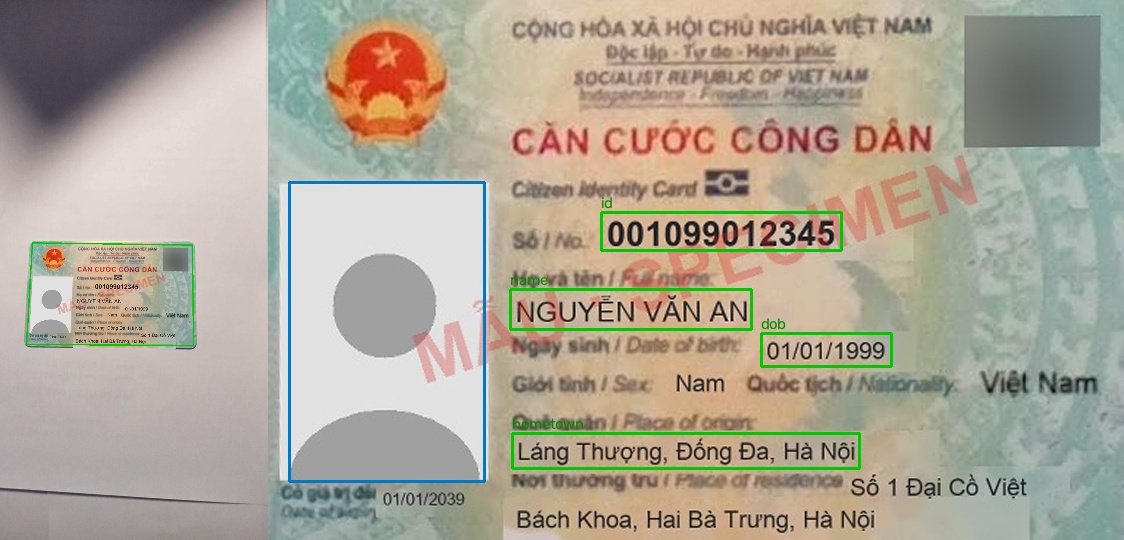
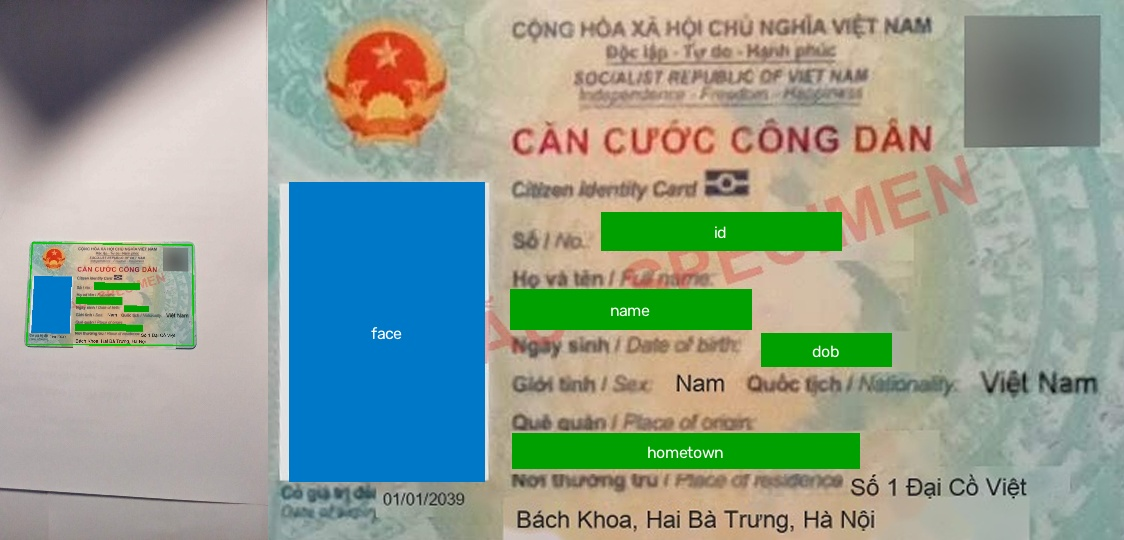
Redacted visualisation and a drawn pipeline diagram
- draw(..., redact=True) / ekyc --vis out.jpg --redact covers each detected field
  and the face with an opaque box, on the flattened card and on the input photo
- README result image regenerated with --redact, JSON values partly masked
- pipeline diagram as docs/images/pipeline.svg instead of the mermaid chart
- test for the redacted visualisation

Changed region(s): [[0.2491, 0.3259, 0.8096, 0.9185], [0.5294, 0.3556, 0.7785, 0.4741], [0.0, 0.5037, 0.1557, 0.6222]]

diff --git a/src/ekyc/pipeline.py b/src/ekyc/pipeline.py
@@ -120,19 +120,45 @@ class EKYC:
         )
 
 
-def draw(result: ExtractionResult, image: np.ndarray | None = None) -> np.ndarray:
-    """Visualise the result: card quad on the input (if given) beside the annotated crop."""
-    card = result.card_image.copy()
-    for name, f in result.fields.items():
-        for x1, y1, x2, y2 in f.boxes:
-            cv2.rectangle(card, (x1, y1), (x2, y2), (0, 200, 0), 2)
-            cv2.putText(card, name, (x1, max(12, y1 - 4)), cv2.FONT_HERSHEY_SIMPLEX, 0.5, (0, 140, 0), 1, cv2.LINE_AA)
+def _card_to_image(result: ExtractionResult, box) -> np.ndarray:
+    """Project an (x1, y1, x2, y2) box on the warped card back onto the input photo as a polygon."""
+    h, w = result.card_image.shape[:2]
+    rect = np.array([[0, 0], [w - 1, 0], [w - 1, h - 1], [0, h - 1]], dtype=np.float32)
+    m = cv2.getPerspectiveTransform(rect, np.array(result.card_quad, dtype=np.float32))
+    x1, y1, x2, y2 = box
+    pts = np.array([[[x1, y1], [x2, y1], [x2, y2], [x1, y2]]], dtype=np.float32)
+    return cv2.perspectiveTransform(pts, m)[0].round().astype(np.int32)
+
+
+def draw(result: ExtractionResult, image: np.ndarray | None = None, redact: bool = False) -> np.ndarray:
+    """Visualise the result: card quad on the input (if given) beside the annotated crop.
+
+    With ``redact=True`` every detected field and the face are covered by an opaque box (on the
+    crop and on the input photo), so the picture can be shared without the personal data.
+    """
+    green, blue = (0, 160, 0), (200, 120, 0)
+    boxes = [(name, b, green) for name, f in result.fields.items() for b in f.boxes]
     if result.face_box:
-        x1, y1, x2, y2 = result.face_box
-        cv2.rectangle(card, (x1, y1), (x2, y2), (200, 120, 0), 2)
+        boxes.append(("face", result.face_box, blue))
+
+    card = result.card_image.copy()
+    for name, (x1, y1, x2, y2), color in boxes:
+        if redact:
+            cv2.rectangle(card, (x1, y1), (x2, y2), color, -1)
+            (tw, th), _ = cv2.getTextSize(name, cv2.FONT_HERSHEY_SIMPLEX, 0.55, 1)
+            org = ((x1 + x2 - tw) // 2, (y1 + y2 + th) // 2)
+            cv2.putText(card, name, org, cv2.FONT_HERSHEY_SIMPLEX, 0.55, (255, 255, 255), 1, cv2.LINE_AA)
+        else:
+            cv2.rectangle(card, (x1, y1), (x2, y2), color, 2)
+            if name != "face":
+                cv2.putText(card, name, (x1, max(12, y1 - 4)), cv2.FONT_HERSHEY_SIMPLEX, 0.5, (0, 140, 0), 1,
+                            cv2.LINE_AA)
     if image is None or result.card_quad is None:
         return card
     src = image.copy()
+    if redact:
+        for _, box, color in boxes:
+            cv2.fillPoly(src, [_card_to_image(result, box)], color)
     cv2.polylines(src, [np.array(result.card_quad, np.int32)], True, (0, 200, 0), max(2, src.shape[1] // 300))
     src = cv2.resize(src, (int(src.shape[1] * card.shape[0] / src.shape[0]), card.shape[0]))
     return np.hstack([src, card])

diff --git a/src/ekyc/cli.py b/src/ekyc/cli.py
@@ -1,4 +1,4 @@
-"""Command line: ``ekyc card.jpg [--cropper keypoints] [--vis out.jpg]``."""
+"""Command line: ``ekyc card.jpg [--cropper keypoints] [--vis out.jpg [--redact]]``."""
 from __future__ import annotations
 
 import argparse
@@ -19,6 +19,7 @@ def main(argv: list[str] | None = None) -> int:
     p.add_argument("--enhance-ocr", action="store_true", help="shadow removal + contrast stretch before OCR")
     p.add_argument("--fallback-full-image", action="store_true", help="run on the whole image if no card is found")
     p.add_argument("--vis", help="save a visualisation (one image) or a directory (several images)")
+    p.add_argument("--redact", action="store_true", help="cover the fields and face with opaque boxes in --vis")
     args = p.parse_args(argv)
 
     ekyc = EKYC.from_pretrained(args.cropper, args.device, args.cropper_weights, args.enhance_ocr,
@@ -39,7 +40,7 @@ def main(argv: list[str] | None = None) -> int:
         print(json.dumps({"image": path, **result.to_dict()}, ensure_ascii=False, indent=2))
         if args.vis:
             out = args.vis if len(args.images) == 1 else f"{args.vis.rstrip('/')}/{path.rsplit('/', 1)[-1]}"
-            cv2.imwrite(out, draw(result, image))
+            cv2.imwrite(out, draw(result, image, redact=args.redact))
     return status
 
 

diff --git a/tests/test_pipeline.py b/tests/test_pipeline.py
@@ -31,6 +31,20 @@ def test_specimen(ekyc, name):
     assert not result.warnings
 
 
+def test_draw_redact(ekyc):
+    import numpy as np
+
+    from ekyc import draw
+
+    image = cv2.imread(str(ROOT / "examples" / "specimen_2.jpg"))
+    result = ekyc(image)
+    vis = draw(result, image, redact=True)
+    card = vis[:, -result.card_image.shape[1]:]  # right half: the flattened card
+    x1, y1, x2, y2 = result.fields["id"].boxes[0]
+    patch = card[y1 + 2:y2 - 2, x1 + 2:x1 + 20]  # left of the centred label
+    assert (patch == patch[0, 0]).all() and not np.array_equal(patch, result.card_image[y1 + 2:y2 - 2, x1 + 2:x1 + 20])
+
+
 def test_no_card(ekyc):
     import numpy as np
 

diff --git a/README.md b/README.md
@@ -7,10 +7,10 @@ locate and flatten the card, find the text fields, read them with a Vietnamese O
 $ ekyc examples/specimen_2.jpg
 {
   "fields": {
-    "id":       { "text": "079301005678", "confidence": 0.93, ... },
-    "name":     { "text": "TRẦN THỊ BÌNH", ... },
-    "dob":      { "text": "15/06/2001", ... },
-    "hometown": { "text": "Tân Định, Quận 1, TP Hồ Chí Minh", ... }
+    "id":       { "text": "0793••••••••", "confidence": 0.93, ... },
+    "name":     { "text": "TRẦN ••• •••", ... },
+    "dob":      { "text": "••/••/2001", ... },
+    "hometown": { "text": "••••, Quận 1, TP Hồ Chí Minh", ... }
   },
   "face_box": [7, 178, 223, 476],
   "card_quad": [[...], [...], [...], [...]],
@@ -21,19 +21,15 @@ $ ekyc examples/specimen_2.jpg
 
 ![result](docs/images/result_specimen_2.jpg)
 
+<sub>Left: input photo with the detected card outline. Right: the flattened card with the detected fields.
+Field values are hidden here (`ekyc card.jpg --vis out.jpg --redact`), and partly masked in the JSON above.</sub>
+
 > The sample cards in `examples/` are **fictitious specimens**: every personal detail (face, QR code, number,
 > name, dates, addresses) was replaced with invented data. No real ID card is included in this repository.
 
 ## Pipeline
 
-```mermaid
-flowchart LR
-    A[Photo] --> B["1 · Cropper<br/>YOLOv8: 4 card corners"]
-    B -->|perspective warp<br/>856×540| C["2 · Field detector<br/>YOLOv8s: id, name, dob,<br/>hometown, face"]
-    C -->|line crops| D["3 · Reader<br/>VietOCR VGG19-Transformer"]
-    D --> E["4 · Post-processing<br/>normalise + validate"]
-    E --> F[JSON]
-```
+<p align="center"><img src="docs/images/pipeline.svg" alt="eKYC pipeline: photo, card cropper, field detector, text reader, post-processing, JSON" width="100%"></p>
 
 | Stage | Model | Size | Output |
 |---|---|---|---|
@@ -74,6 +70,7 @@ and cached in `~/.cache/ekyc` (override with `EKYC_WEIGHTS_DIR`).
 ```bash
 ekyc card.jpg                                  # JSON to stdout
 ekyc card.jpg --vis result.jpg                 # + visualisation
+ekyc card.jpg --vis result.jpg --redact        # visualisation with fields and face hidden (safe to share)
 ekyc *.jpg --vis out_dir/ --device cuda        # batch, GPU
 ekyc form.jpg --cropper keypoints              # paper documents
 ```
@@ -93,7 +90,7 @@ except CardNotFoundError:
 
 print(result.fields["id"].text, result.fields["id"].confidence)
 print(result.warnings)                         # e.g. ["dob: invalid date 31/02/1999"]
-cv2.imwrite("vis.jpg", draw(result, image))
+cv2.imwrite("vis.jpg", draw(result, image))                  # draw(..., redact=True) hides the values
 ```
 
 ### HTTP API
